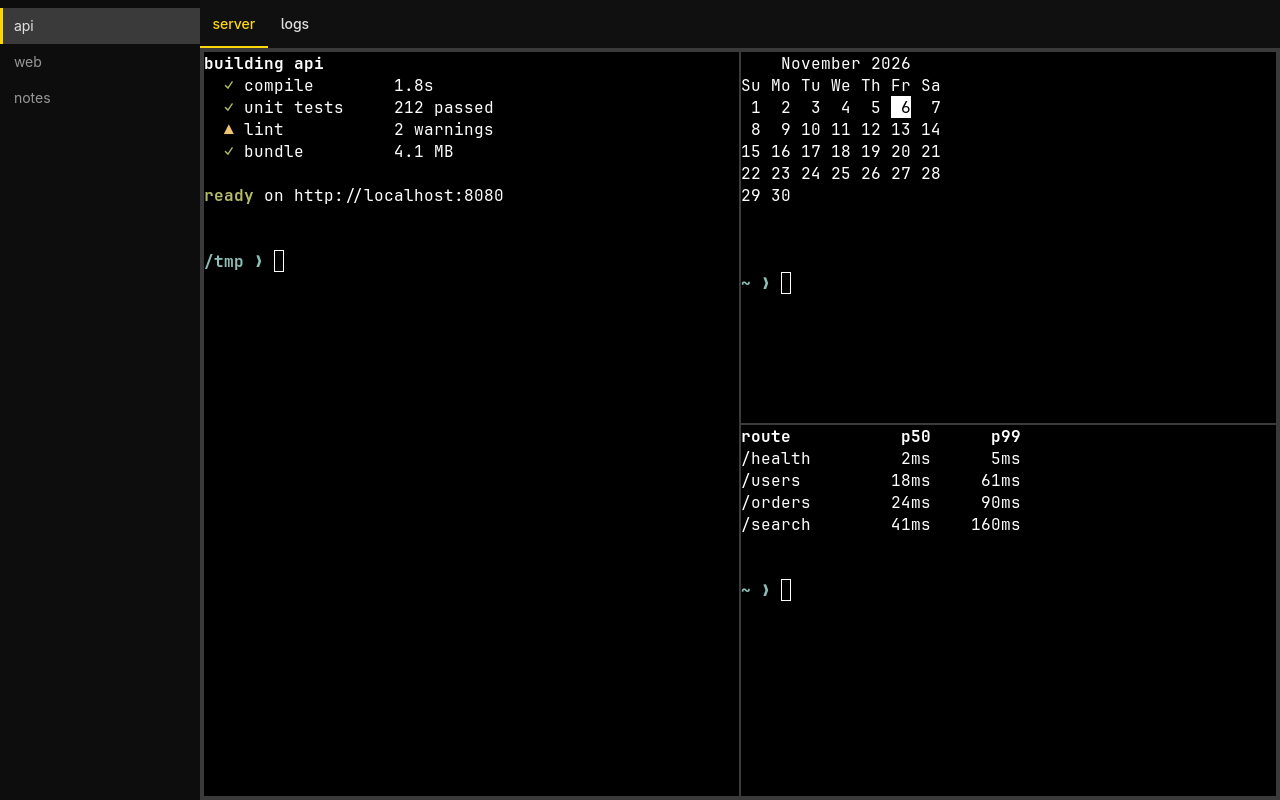
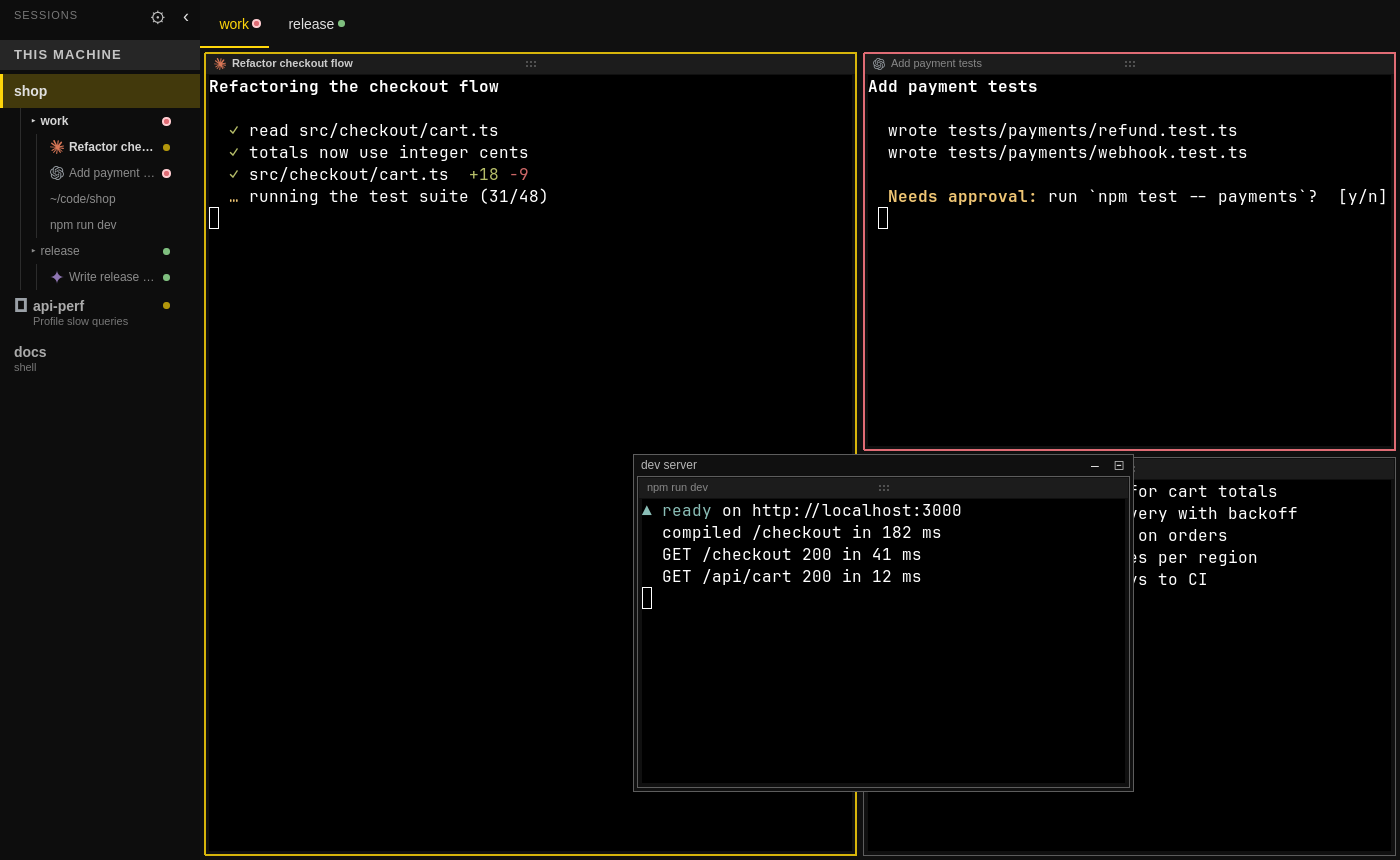
Show the features in README screenshots
Taken from a throwaway Rex server with made-up sessions: the overview,
dragging a pane, the pane menu, the command palette, and settings.

Claude-Session: https://claude.ai/code/session_01UCs6nfnvdUe965ebmRZ8sp

diff --git a/README.md b/README.md
@@ -1,6 +1,6 @@
 # orex
 
-![orex showing a Rex session with three panes](docs/screenshot.png)
+![orex showing a session with tiled and floating panes, agent icons, and statuses](docs/screenshot.png)
 
 Rex on Omarchy, shortened to orex. [Rex](https://superlogical.com) keeps
 terminal sessions running on a server, and its Mac and iOS apps show them. Rex has
@@ -35,6 +35,10 @@ it back.
 
 ## Keys
 
+Ctrl+Shift+P lists every action with its key, so you can search for one.
+
+![The command palette](docs/palette.png)
+
 | Key | Does |
 |---|---|
 | Ctrl+Shift+] / Ctrl+Shift+[ | Next / previous tab |
@@ -57,10 +61,14 @@ its status still shows in orex.
 Right-click a pane for copy, paste, split, float, zoom, and close; they act on
 that pane. Click a pane to focus it. Everything else goes to the program in the pane.
 
+![The right-click menu of a pane](docs/menu.png)
+
 With more than one pane, a pane's title bar is its handle. Drag it onto
 another pane: near an edge puts it on that side, the middle swaps the two.
 Panes move between the layout and floating windows the same way. Drag the
 border between two panes to resize them.
+
+![Dragging a pane by its title bar, with a preview under the pointer](docs/drag.png)
 
 ## Settings
 
@@ -68,6 +76,8 @@ The gear at the top of the session list (or Ctrl+,) opens every setting: text
 size, list width, focus following the mouse, desktop notifications, copying
 selections to the clipboard, remote hosts, and muted sessions. Changes apply
 right away.
+
+![The settings panel](docs/settings.png)
 
 ## Build
 
